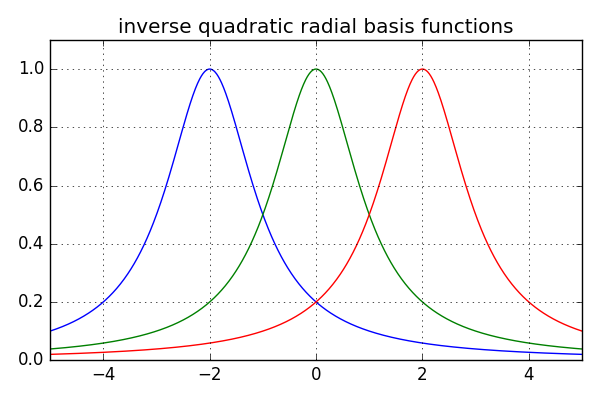
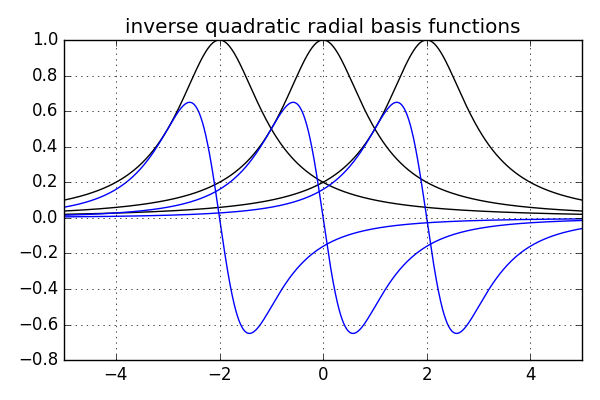
changed demo file

diff --git a/demo/demo_basis.py b/demo/demo_basis.py
@@ -12,15 +12,23 @@ c = np.array([[-2.0],[0.0],[2.0]]) # RBF centers
 x = np.linspace(-5.0,5.0,1000)[:,None] # evaluate at these points
 
 soln = iq(x,c)
+soln_diff = iq(x,c,diff=(1,))
 
 fig,ax = plt.subplots(figsize=(6,4))
 ax.plot(x,soln)
 ax.set_xlim((-5.0,5.0))
-ax.set_ylim((0.0,1.1))
-ax.set_title('inverse quadratic radial basis functions')
+ax.set_title('inverse quadratic')
 ax.grid()
 fig.tight_layout()
-plt.savefig('figures/demo_basis.png')
+plt.savefig('figures/demo_basis_1.png')
+
+fig,ax = plt.subplots(figsize=(6,4))
+ax.plot(x,soln_diff)
+ax.set_xlim((-5.0,5.0))
+ax.set_title('inverse quadratic first derivative')
+ax.grid()
+fig.tight_layout()
+plt.savefig('figures/demo_basis_2.png')
 
 
 
